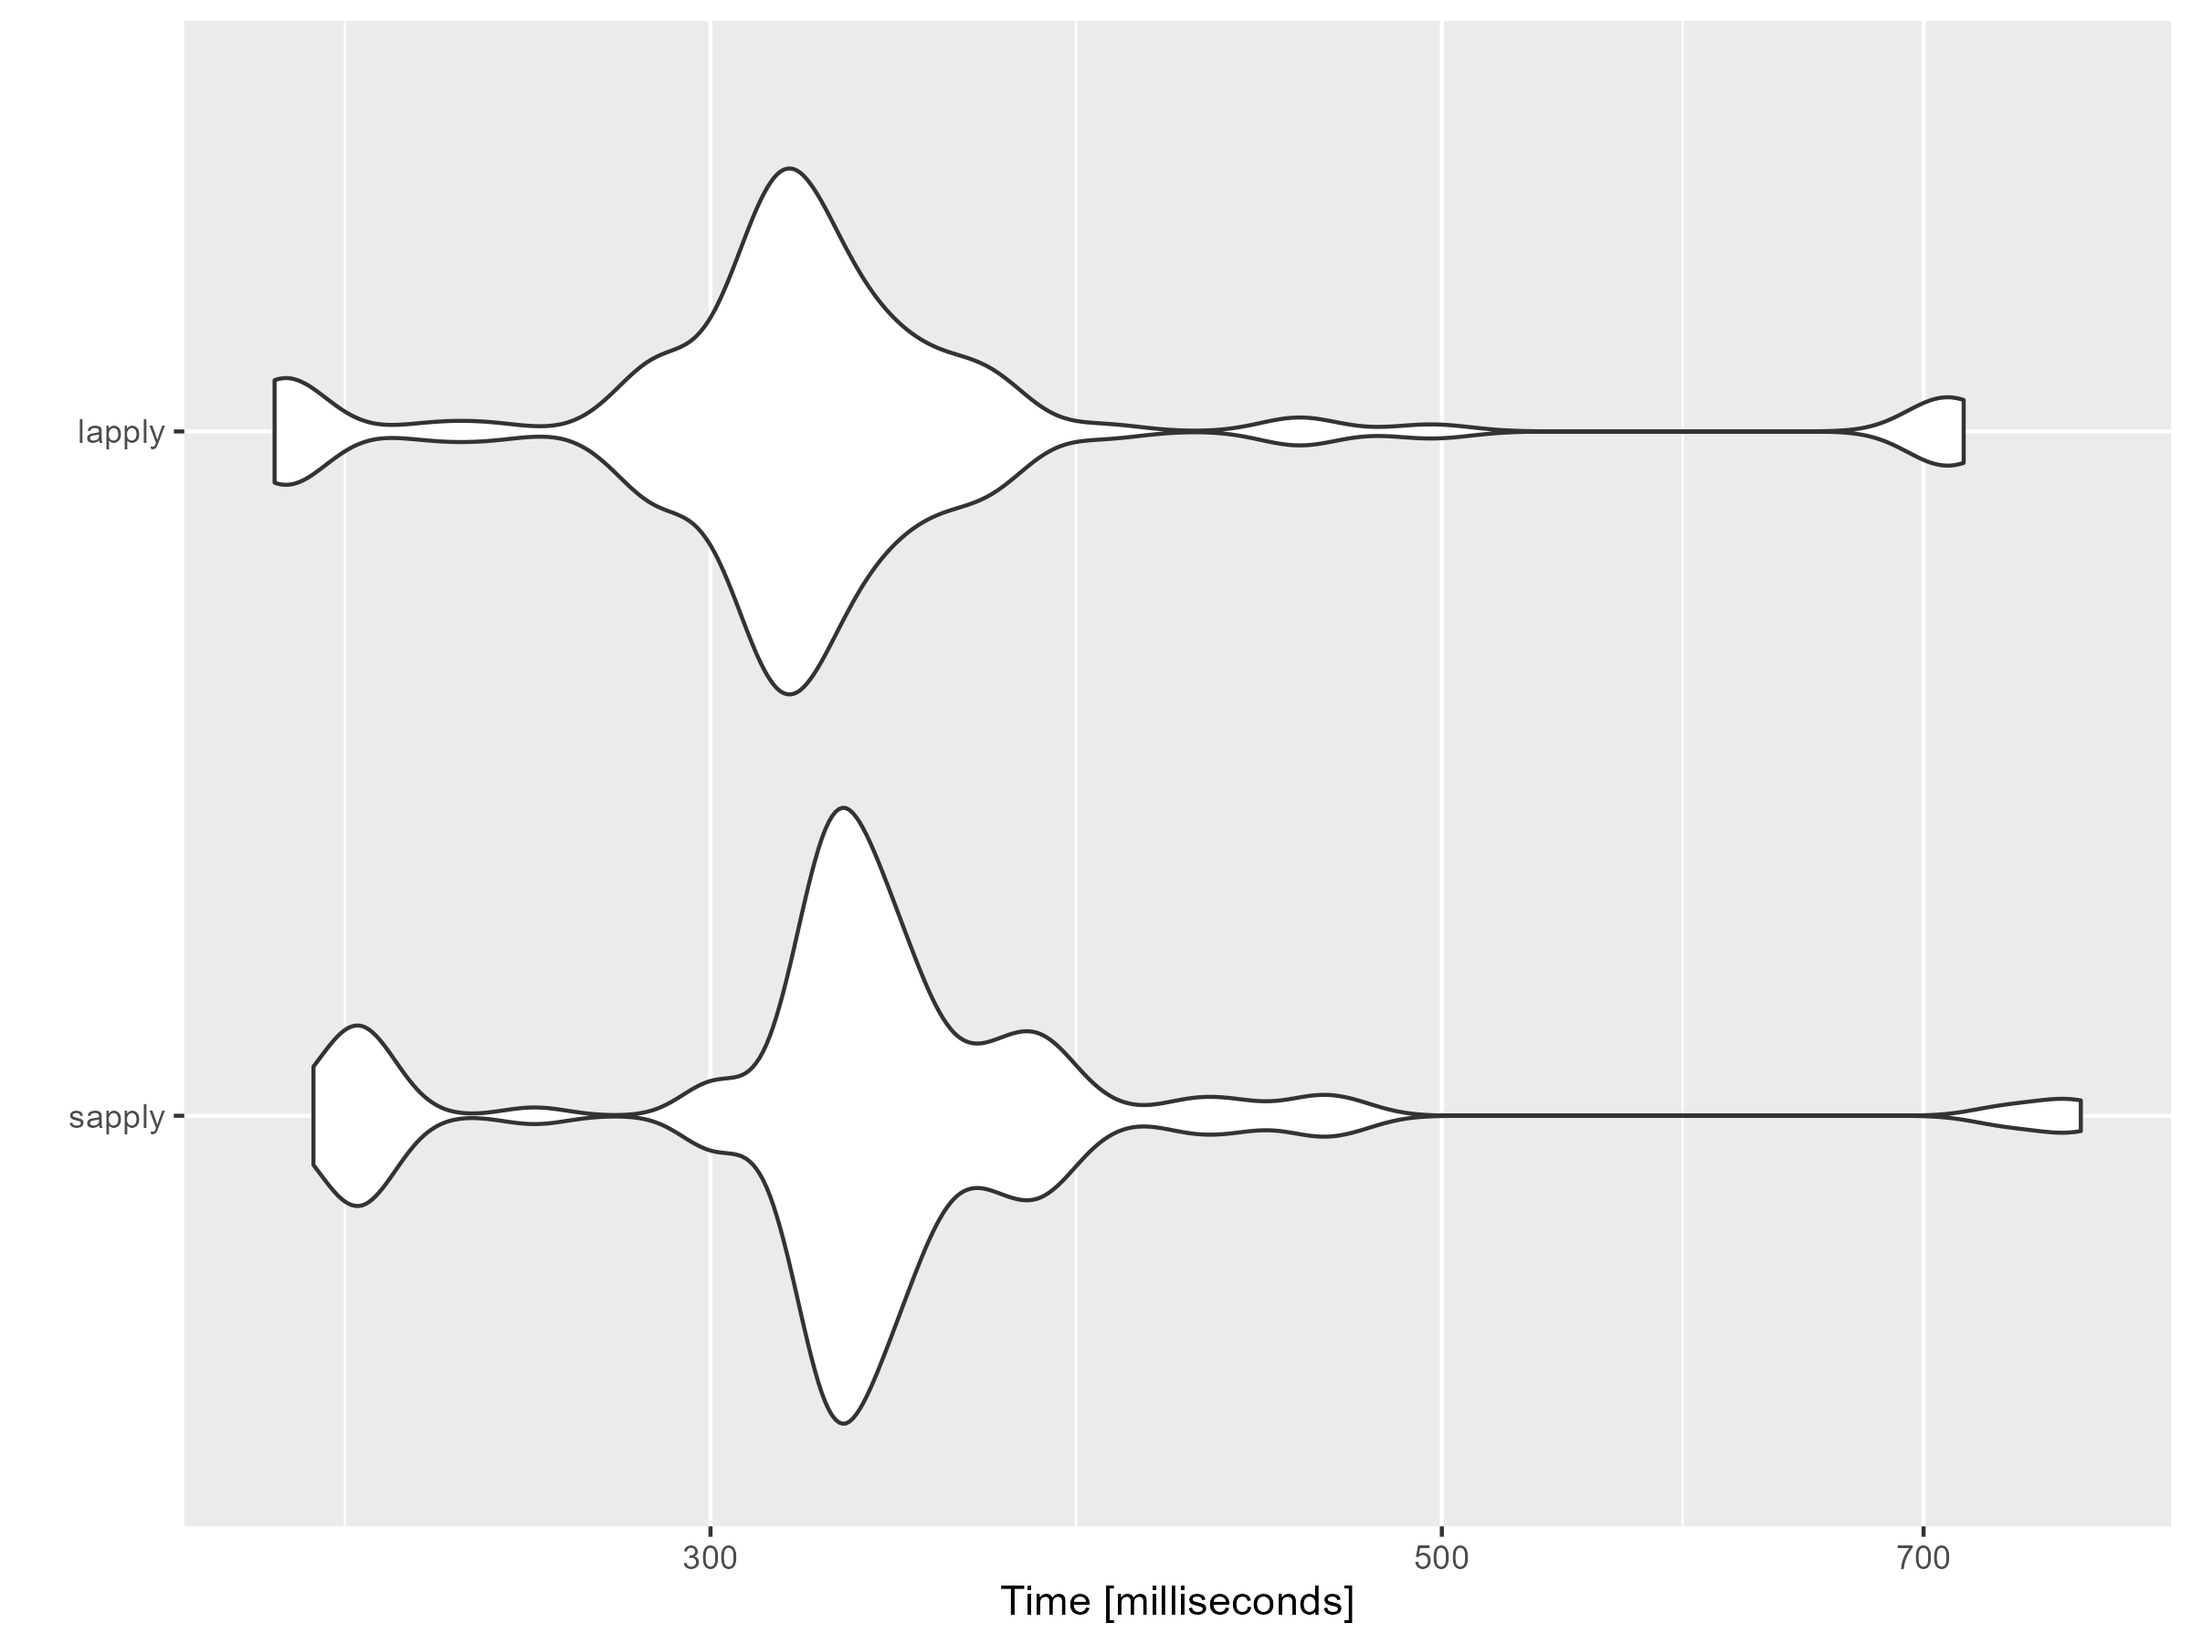
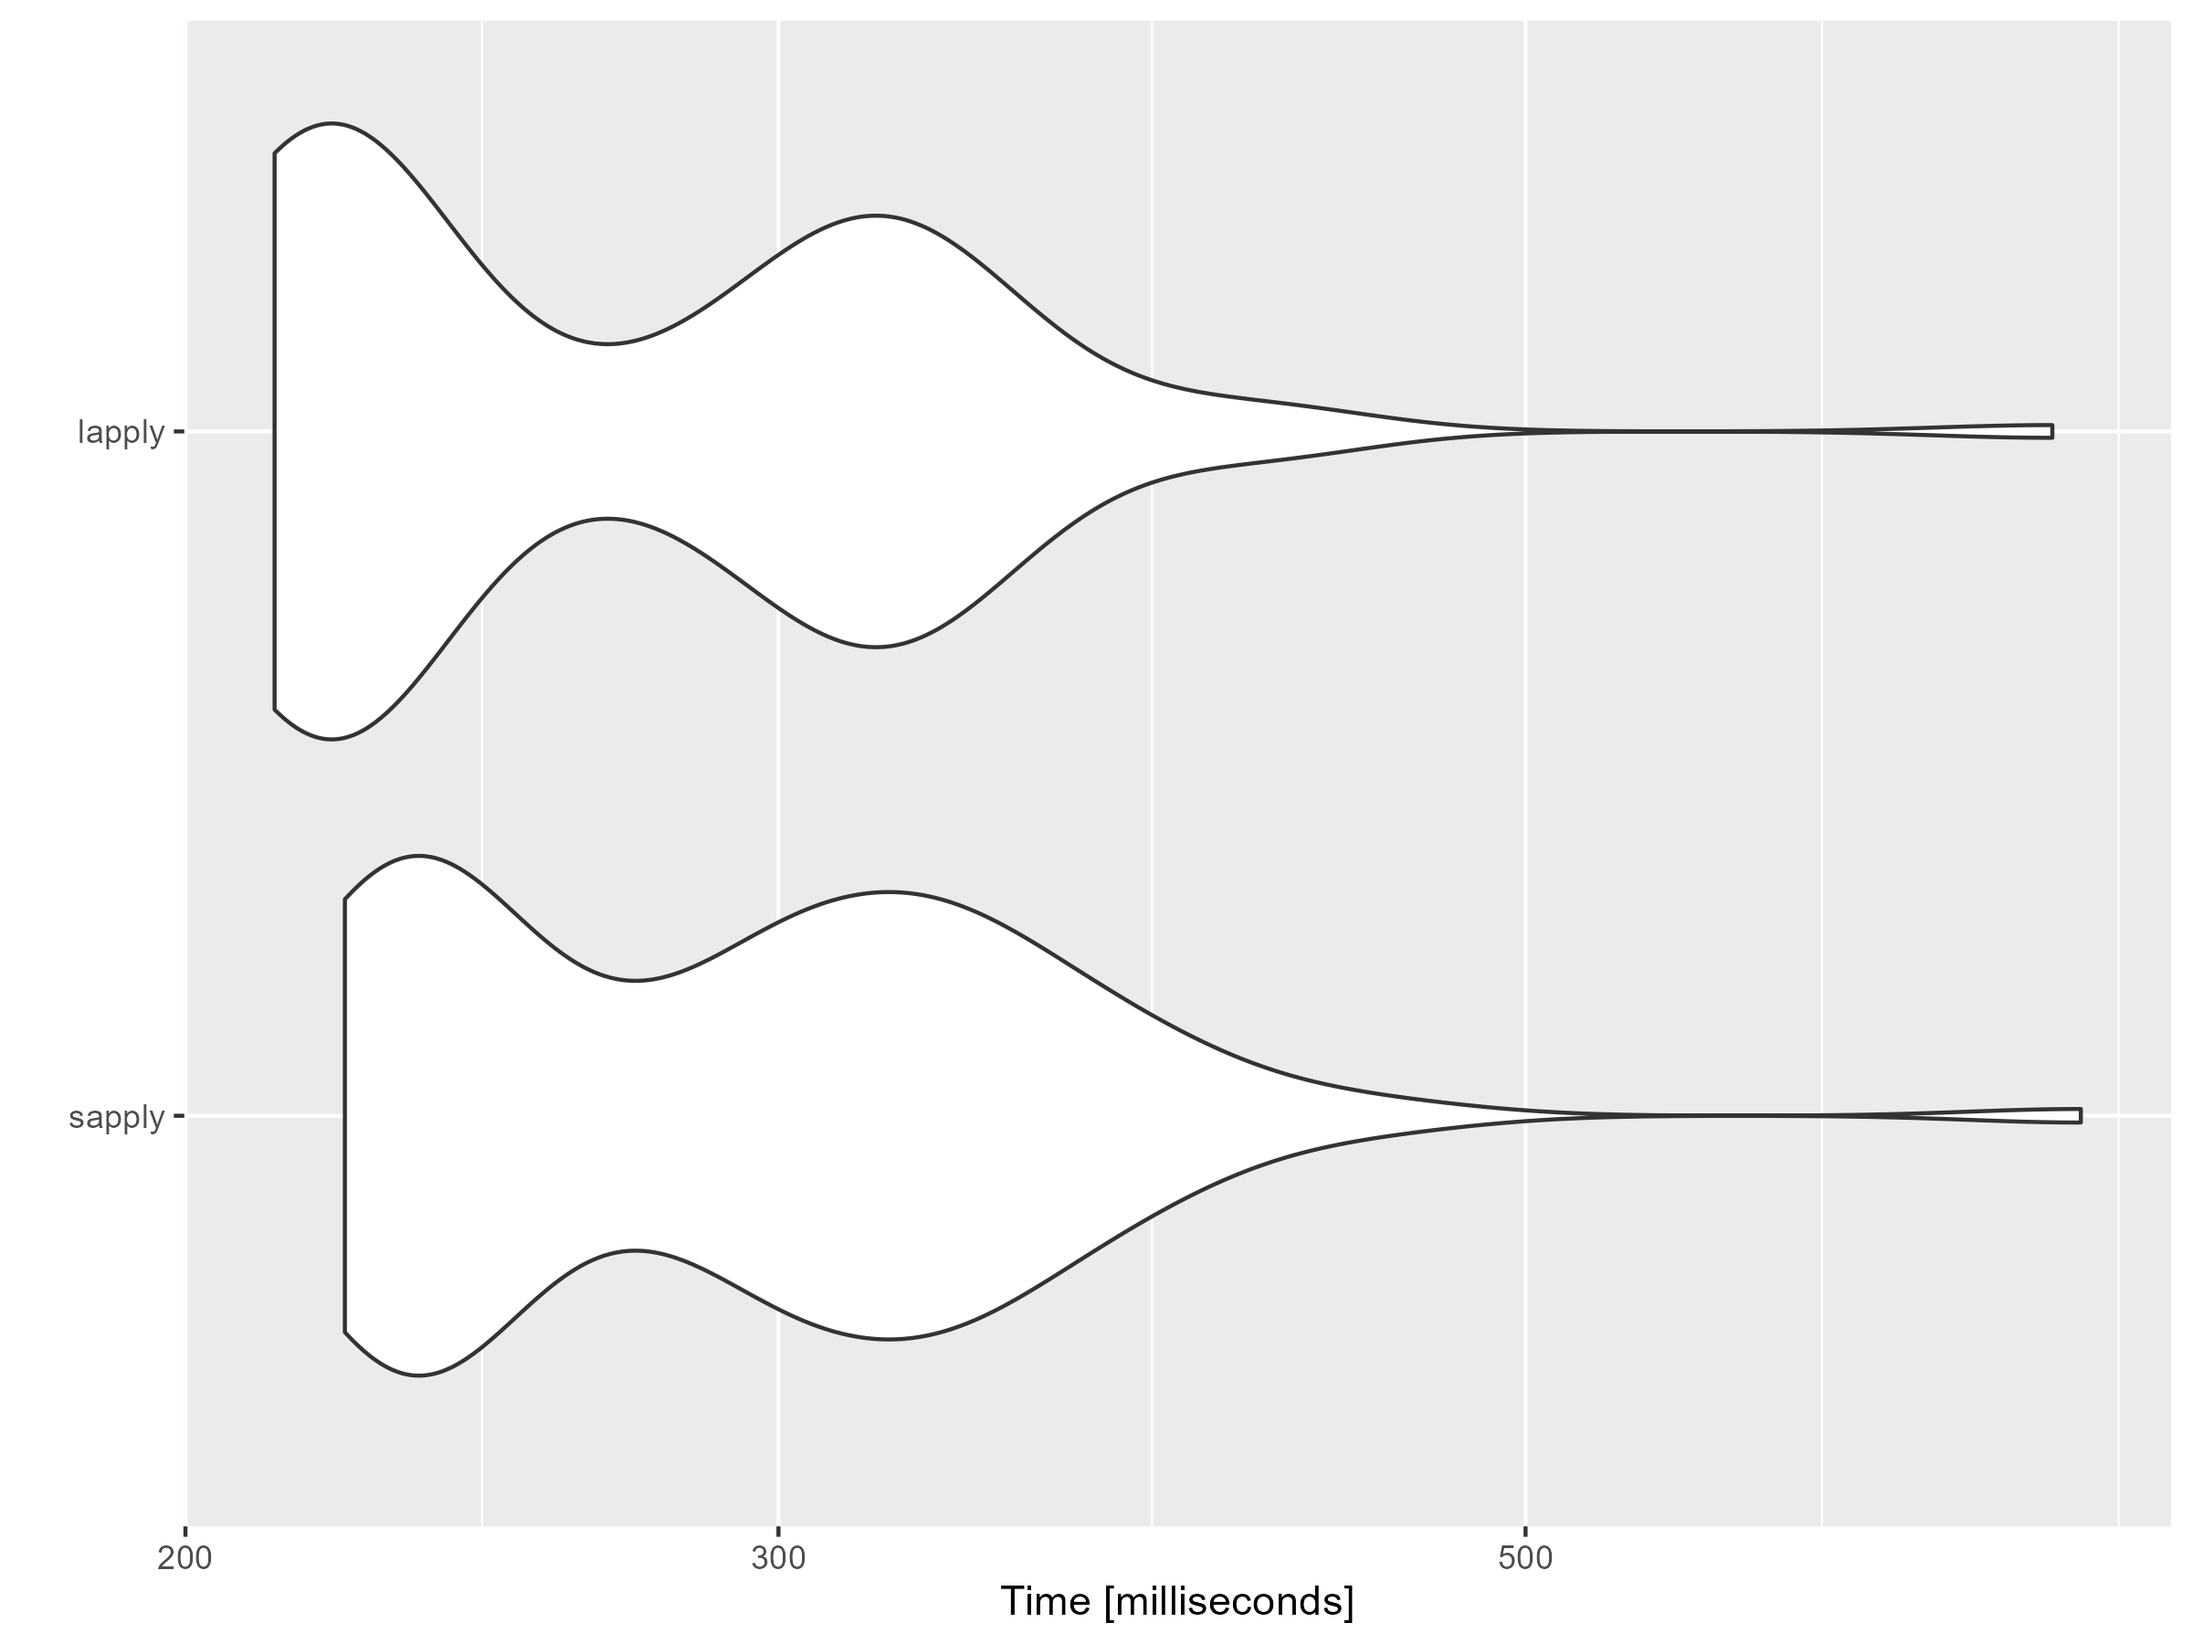
Update README

diff --git a/code/README.md b/code/README.md
@@ -28,6 +28,12 @@ To use this script:
 - Pre-processing: Perform text preprocessing by converting text to lowercase, removing punctuation, numbers, stopwords, and applying stemming.
 - Save Preprocessed Data: Save the preprocessed data to a CSV file.
 
+### Additional Functionality and Insights:
+- **Variable Scoping and Environments**: The script demonstrates the concept of variable scoping and environments in R. It illustrates how variables created within a function are encapsulated within their own environment, distinct from the global environment. This is exemplified by the creation of an unnecessary variable within the `preprocesstext` function and the observation of different contents and memory addresses for variables inside and outside the function.
+
+- **Benchmarking Performance**: A benchmarking comparison between `sapply` and `lapply` functions is conducted to assess the efficiency of different approaches in converting the corpus to a character vector. This benchmarking provides insights into the relative performance of these functions, aiding in optimization and code efficiency.
+
+- **Detailed ReadME Updates**: The README file now includes detailed instructions for usage, including updating file paths and running the script in an R environment. Additionally, it outlines the contents of the script and its purpose, providing comprehensive guidance for users.
 
 
 
